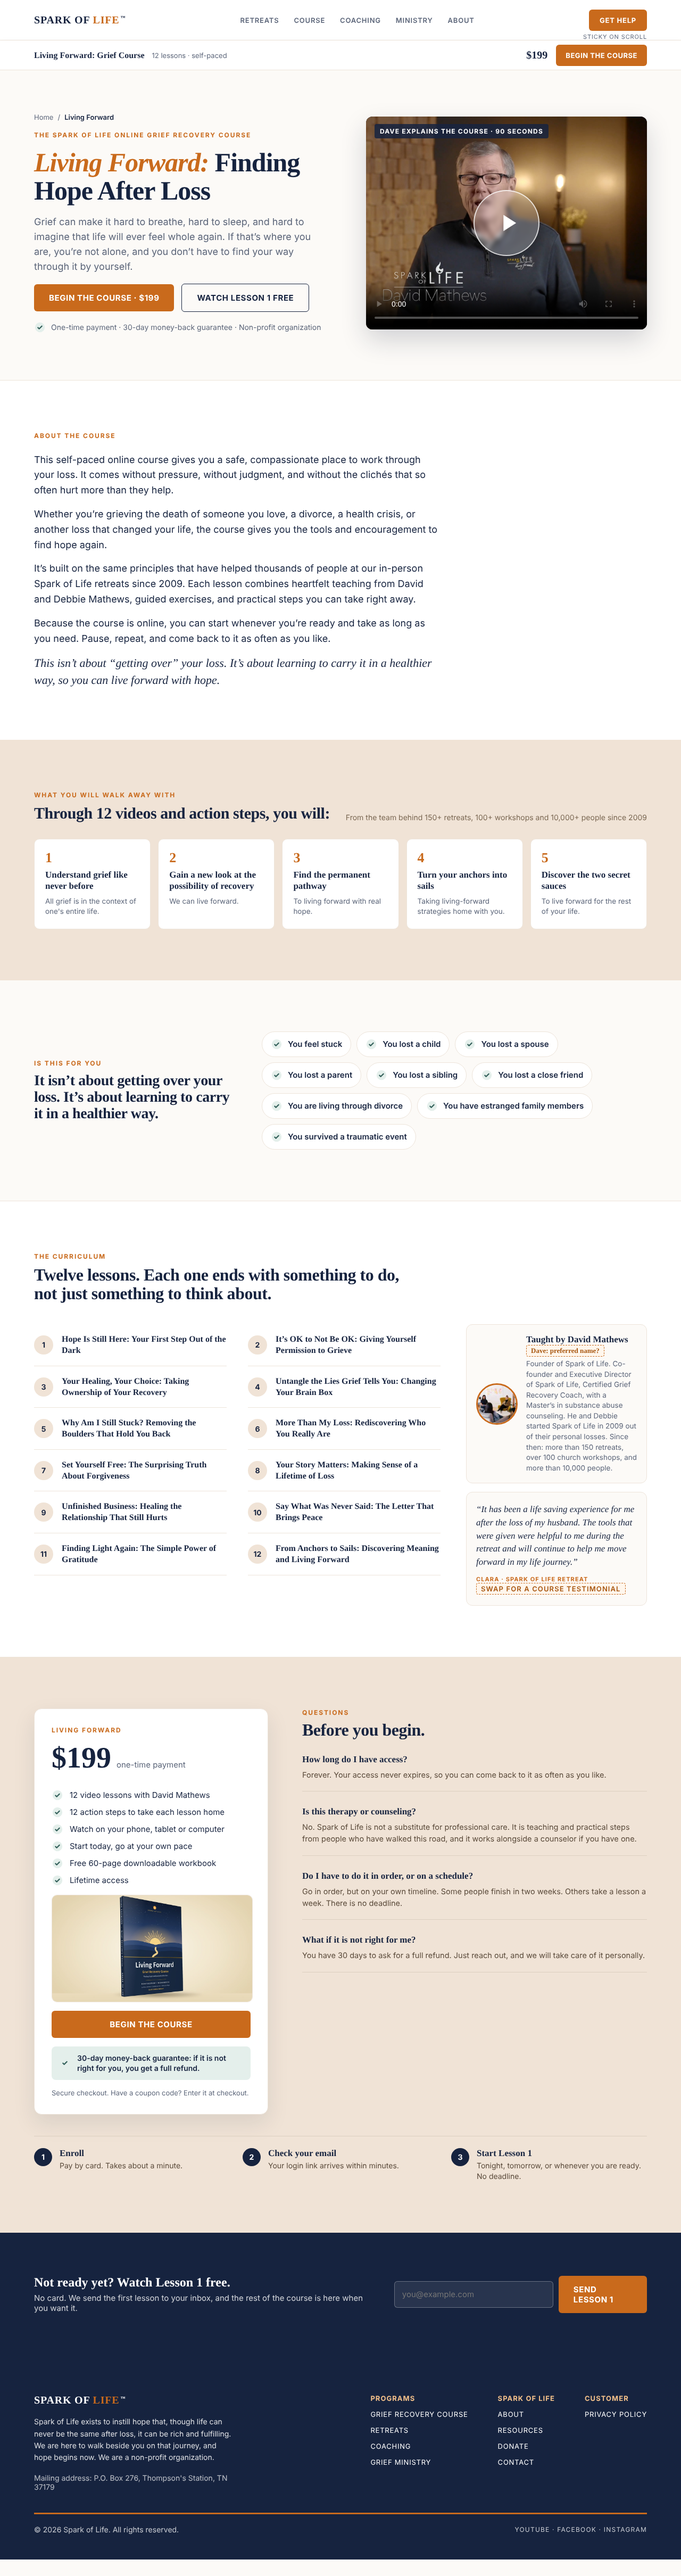
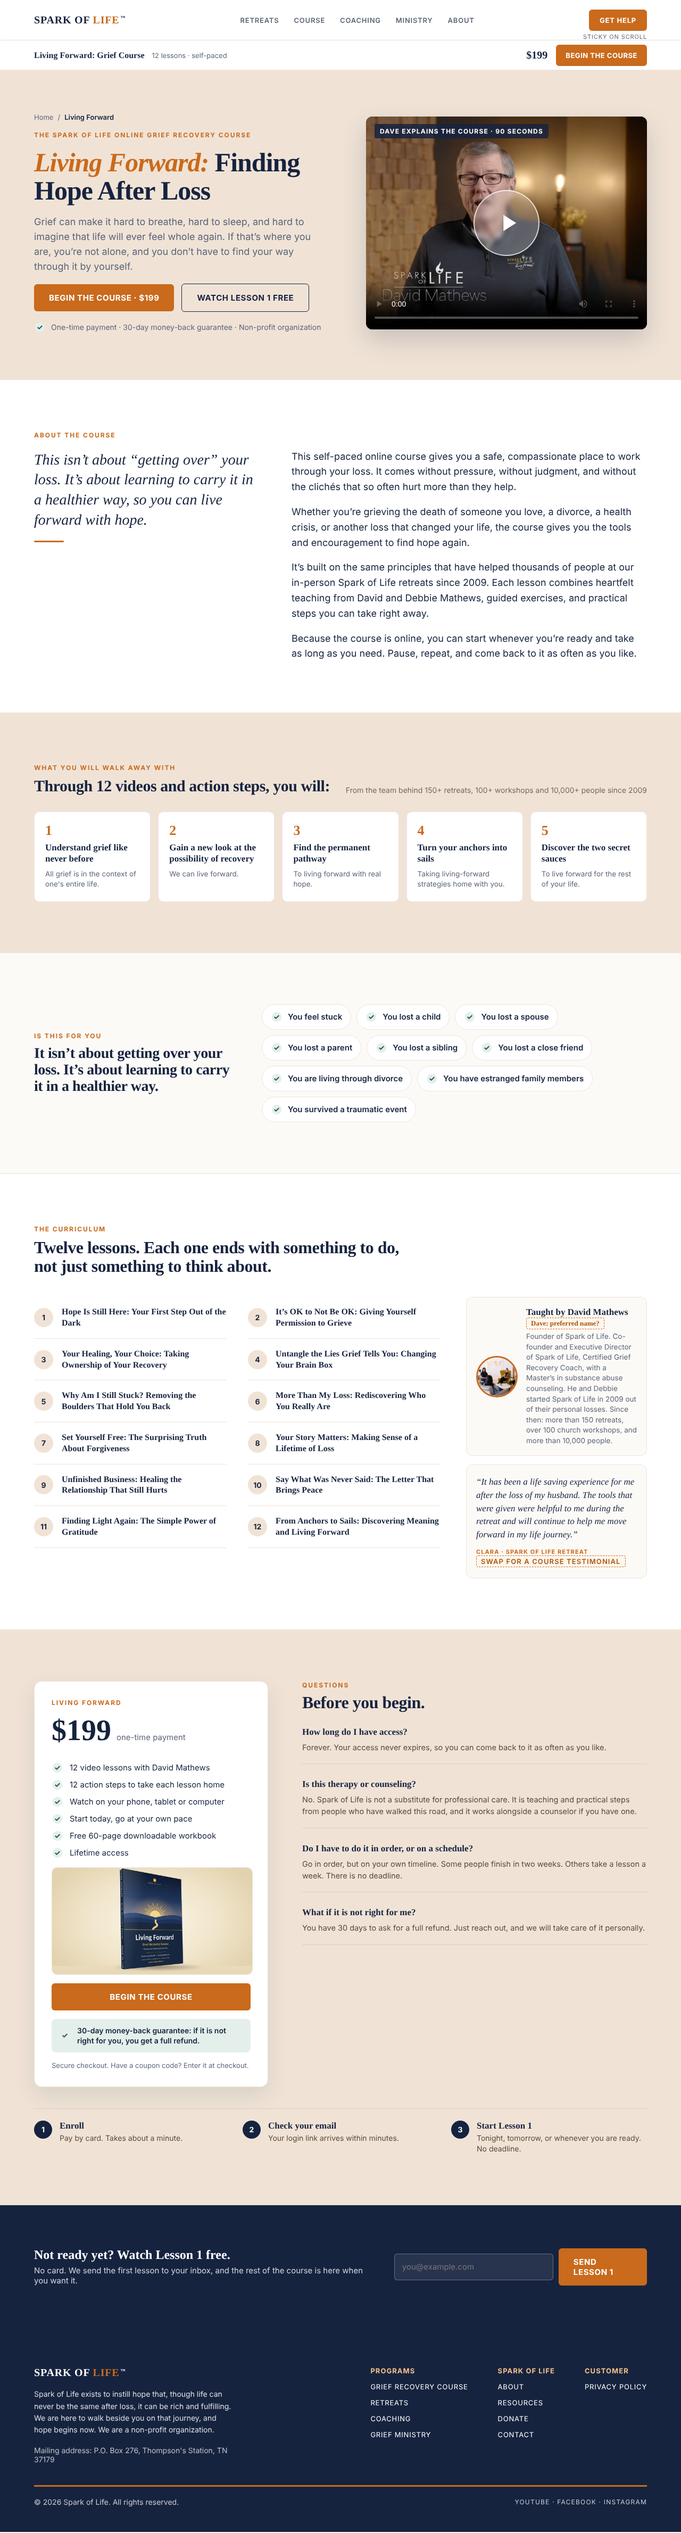
SoL course page: hero color, two-column About section
Claude-Session: https://claude.ai/code/session_01RZFVBvN9c6gztiVv7w5GTp

diff --git a/sol-course-page/desktop.html b/sol-course-page/desktop.html
@@ -7,7 +7,7 @@ body{margin:0;background:#FCFAF7;font-family:'Karla', system-ui, sans-serif;colo
 a{color:#C96A1C;text-decoration:none}a:hover{color:#A8560F}
 </style>
 <style>html,body{margin:0;background:#E9E4DC} .wrap{width:1280px;margin:0 auto;box-shadow:0 20px 60px rgba(0,0,0,.15)}</style></head><body><div class="wrap">
-<div style="width: 1280px; height: 4840px; box-sizing: border-box; display: flex; flex-direction: column; background: #FCFAF7; overflow: hidden; position: relative;"><div style="display: flex; align-items: center; justify-content: space-between; padding: 0 64px; height: 76px; box-sizing: border-box; border-bottom: 1px solid #EDE4DA; background: #FFFFFF;">
+<div style="width: 1280px; height: 4760px; box-sizing: border-box; display: flex; flex-direction: column; background: #FCFAF7; overflow: hidden; position: relative;"><div style="display: flex; align-items: center; justify-content: space-between; padding: 0 64px; height: 76px; box-sizing: border-box; border-bottom: 1px solid #EDE4DA; background: #FFFFFF;">
   <div style="font-family: 'Literata', Georgia, serif; font-weight: 700; font-size: 20px; letter-spacing: 0.04em; color: #16233F;">SPARK OF <span style="color: #C96A1C;">LIFE</span><sup style="font-size: 0.45em; margin-left: 2px;">&trade;</sup></div>
   <div style="display: flex; gap: 28px; align-items: center;"><a href="#" style="color: #5B6579; font-size: 13px; letter-spacing: 0.06em; text-transform: uppercase; font-weight: 600;">Retreats</a><a href="#" style="color: #5B6579; font-size: 13px; letter-spacing: 0.06em; text-transform: uppercase; font-weight: 600;">Course</a><a href="#" style="color: #5B6579; font-size: 13px; letter-spacing: 0.06em; text-transform: uppercase; font-weight: 600;">Coaching</a><a href="#" style="color: #5B6579; font-size: 13px; letter-spacing: 0.06em; text-transform: uppercase; font-weight: 600;">Ministry</a><a href="#" style="color: #5B6579; font-size: 13px; letter-spacing: 0.06em; text-transform: uppercase; font-weight: 600;">About</a></div>
   <a href="#" style="background: #C96A1C; color: #FFFFFF; padding: 12px 20px; border-radius: 6px; font-size: 13px; font-weight: 700; letter-spacing: 0.06em; text-transform: uppercase;">Get Help</a>
@@ -21,7 +21,7 @@ a{color:#C96A1C;text-decoration:none}a:hover{color:#A8560F}
     <a href="#price" style="display: inline-flex; align-items: center; background: #C96A1C; color: #FFFFFF; padding: 10px 18px; border-radius: 6px; font-size: 13px; font-weight: 700; letter-spacing: 0.04em; text-transform: uppercase; min-height: 40px; box-sizing: border-box;">Begin the course</a>
   </div>
   <div style="position: absolute; right: 64px; top: 62px; font-size: 11px; color: #5B6579; letter-spacing: 0.08em; text-transform: uppercase;">Sticky on scroll</div>
-</div><div style="display: flex; gap: 64px; align-items: center; padding: 80px 64px 88px; box-sizing: border-box; background: #FCFAF7;">
+</div><div style="display: flex; gap: 64px; align-items: center; padding: 80px 64px 88px; box-sizing: border-box; background: #F0E3D6;">
   <div style="display: flex; flex-direction: column; gap: 18px; width: 560px; flex: 0 0 auto;">
     <div style="display: flex; gap: 8px; align-items: center; font-size: 13px; color: #5B6579;"><a href="#" style="color: #5B6579;">Home</a><span>/</span><span style="color: #16233F; font-weight: 600;">Living Forward</span></div>
     <div style="font-size: 12px; letter-spacing: 0.16em; text-transform: uppercase; color: #C96A1C; font-weight: 700;">The Spark of Life Online Grief Recovery Course</div>
@@ -34,14 +34,17 @@ a{color:#C96A1C;text-decoration:none}a:hover{color:#A8560F}
     <video id="heroVid" src="https://assets.cdn.filesafe.space/m8conTrT2FpouIK4RNkB/media/686e31123e1a254c607c0856.mp4" poster="assets/poster.jpg" preload="metadata" playsinline controls style="position: absolute; inset: 0; width: 100%; height: 100%; object-fit: cover; background: #000;"></video><div id="heroPlay" onclick="var v=document.getElementById('heroVid');this.style.display='none';v.play();" style="position: absolute; inset: 0; display: flex; align-items: center; justify-content: center; cursor: pointer;"><div style="width: 120px; height: 120px; border-radius: 50%; background: rgba(255,255,255,0.22); border: 2px solid rgba(255,255,255,0.75); backdrop-filter: blur(4px); display: flex; align-items: center; justify-content: center; box-shadow: 0 10px 30px rgba(0,0,0,0.35);"><svg width="52" height="52" viewBox="0 0 24 24" fill="#FFFFFF" style="margin-left: 6px;"><path d="M8 5v14l11-7z"></path></svg></div></div>
     <div style="position: absolute; left: 16px; top: 14px; background: rgba(22,35,63,0.85); color: #FFFFFF; font-size: 12px; letter-spacing: 0.1em; text-transform: uppercase; font-weight: 700; padding: 6px 10px; border-radius: 4px;">Dave explains the course · 90 seconds</div>
   </div>
-</div><div style="display: flex; flex-direction: column; gap: 24px; padding: 96px 64px; box-sizing: border-box; background: #FFFFFF; border-top: 1px solid #EDE4DA;">
-  <div style="font-size: 12px; letter-spacing: 0.16em; text-transform: uppercase; color: #C96A1C; font-weight: 700;">About the course</div>
-  <div style="display: flex; flex-direction: column; gap: 16px; max-width: 760px;">
+</div><div style="display: flex; gap: 64px; align-items: flex-start; padding: 96px 64px; box-sizing: border-box; background: #FFFFFF;">
+  <div style="display: flex; flex-direction: column; gap: 20px; width: 420px; flex: 0 0 auto;">
+    <div style="font-size: 12px; letter-spacing: 0.16em; text-transform: uppercase; color: #C96A1C; font-weight: 700;">About the course</div>
+    <p style="margin: 0; font-family: 'Literata', Georgia, serif; font-size: 28px; line-height: 1.35; color: #16233F; font-style: italic;">This isn&rsquo;t about &ldquo;getting over&rdquo; your loss. It&rsquo;s about learning to carry it in a healthier way, so you can live forward with hope.</p>
+    <div style="width: 56px; height: 3px; background: #C96A1C; border-radius: 2px;"></div>
+  </div>
+  <div style="display: flex; flex-direction: column; gap: 18px; flex-grow: 1; padding-top: 34px;">
     <p style="margin: 0; font-size: 18px; line-height: 1.6; color: #16233F;">This self-paced online course gives you a safe, compassionate place to work through your loss. It comes without pressure, without judgment, and without the clich&eacute;s that so often hurt more than they help.</p>
     <p style="margin: 0; font-size: 18px; line-height: 1.6; color: #16233F;">Whether you&rsquo;re grieving the death of someone you love, a divorce, a health crisis, or another loss that changed your life, the course gives you the tools and encouragement to find hope again.</p>
     <p style="margin: 0; font-size: 18px; line-height: 1.6; color: #16233F;">It&rsquo;s built on the same principles that have helped thousands of people at our in-person Spark of Life retreats since 2009. Each lesson combines heartfelt teaching from David and Debbie Mathews, guided exercises, and practical steps you can take right away.</p>
     <p style="margin: 0; font-size: 18px; line-height: 1.6; color: #16233F;">Because the course is online, you can start whenever you&rsquo;re ready and take as long as you need. Pause, repeat, and come back to it as often as you like.</p>
-    <p style="margin: 0; font-family: 'Literata', Georgia, serif; font-size: 22px; line-height: 1.45; color: #16233F; font-style: italic;">This isn&rsquo;t about &ldquo;getting over&rdquo; your loss. It&rsquo;s about learning to carry it in a healthier way, so you can live forward with hope.</p>
   </div>
 </div><div style="display: flex; flex-direction: column; gap: 32px; padding: 96px 64px; box-sizing: border-box; background: #F0E3D6;">
   <div style="display: flex; justify-content: space-between; align-items: flex-end; gap: 24px;">

diff --git a/sol-course-page/mobile.html b/sol-course-page/mobile.html
@@ -10,7 +10,7 @@ a{color:#C96A1C;text-decoration:none}a:hover{color:#A8560F}
 <div style="width: 390px; height: 7160px; box-sizing: border-box; display: flex; flex-direction: column; background: #FCFAF7; overflow: hidden; position: relative;"><div style="display: flex; align-items: center; justify-content: space-between; padding: 0 20px; height: 60px; box-sizing: border-box; border-bottom: 1px solid #EDE4DA; background: #FFFFFF;">
   <div style="font-family: 'Literata', Georgia, serif; font-weight: 700; font-size: 17px; letter-spacing: 0.04em; color: #16233F;">SPARK OF <span style="color: #C96A1C;">LIFE</span><sup style="font-size: 0.45em; margin-left: 2px;">&trade;</sup></div>
   <button aria-label="Open menu" style="width: 44px; height: 44px; border: 0; background: transparent; display: flex; align-items: center; justify-content: center; padding: 0;"><svg width="26" height="26" viewBox="0 0 24 24" fill="none" stroke="#16233F" stroke-width="2.2" stroke-linecap="round"><path d="M4 7h16M4 12h16M4 17h16"></path></svg></button>
-</div><div style="display: flex; flex-direction: column; gap: 20px; padding: 32px 20px 40px; box-sizing: border-box; background: #FCFAF7;">
+</div><div style="display: flex; flex-direction: column; gap: 20px; padding: 32px 20px 40px; box-sizing: border-box; background: #F0E3D6;">
   <div style="display: flex; gap: 6px; align-items: center; font-size: 12px; color: #5B6579;"><a href="#" style="color: #5B6579;">Home</a><span>/</span><span style="color: #16233F; font-weight: 600;">Living Forward</span></div>
   <div style="font-size: 12px; letter-spacing: 0.16em; text-transform: uppercase; color: #C96A1C; font-weight: 700;">The Spark of Life Online Grief Recovery Course</div>
   <h1 style="margin: 0; font-family: 'Literata', Georgia, serif; font-weight: 700; font-size: 36px; line-height: 1.08; letter-spacing: -0.02em; color: #16233F;"><em style="font-style: italic; color: #C96A1C;">Living Forward:</em> Finding Hope After Loss</h1>
